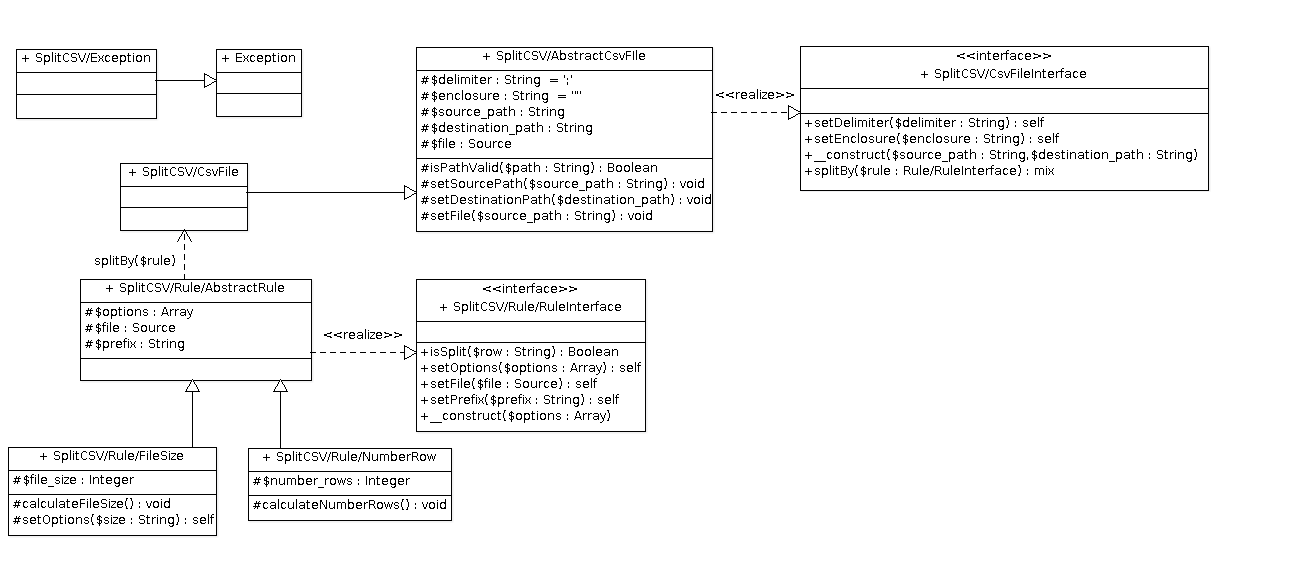
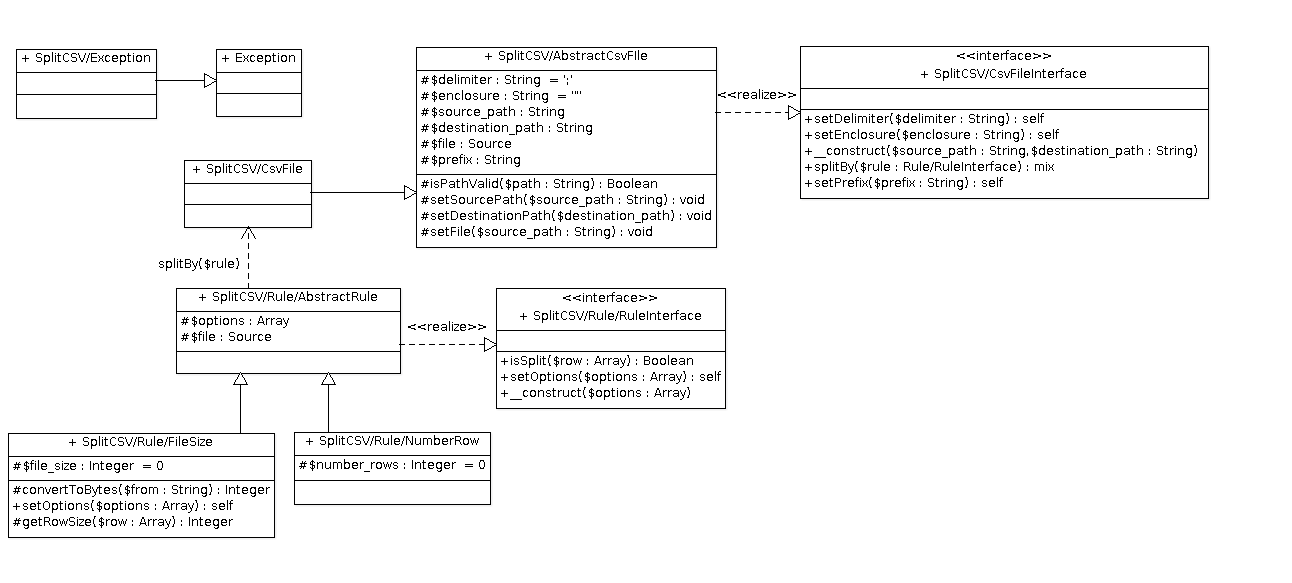
Added FileSize rule. Updated README and UML diagram.

diff --git a/src/SplitCSV/Rule/FileSize.php b/src/SplitCSV/Rule/FileSize.php
@@ -1,0 +1,117 @@
+<?php
+/**
+ * File Size Split Rule
+ * 
+ * @link        https://github.com/picamator/SplitCSV
+ * @license     http://opensource.org/licenses/BSD-3-Clause New BSD License
+ */
+
+namespace SplitCSV\Rule;
+
+class FileSize extends AbstractRule
+{   
+    /**
+     * File Size
+     * 
+     * @var integer
+     */
+    protected $file_size = 0;  
+    
+    /**
+     * Options
+     * 
+     * @var array
+     */
+    protected $options = array('size' => null);
+    
+    /**
+     * Check is file ready to be splitted
+     * 
+     * @param array $row
+     * @return boolean
+     */
+    public function isSplit(array $row)
+    {
+        $this->file_size += $this->getRowSize($row);
+        
+        $result = false;
+        if($this->file_size > $this->options['size']) {
+            $result = true;
+            // reset file_size
+            $this->file_size = 0;
+        }
+        
+        return $result;
+    }
+    
+    /**
+     * Sets options
+     * 
+     * @param array $options
+     * @return self
+     * @throws Exception
+     */
+    public function setOptions(array $options)
+    {
+        parent::setOptions($options);
+        
+        $this->options['size'] = $this->convertToBytes($this->options['size']);
+        
+        return  $this;
+    }
+    
+    /**
+     * Gets row size
+     * 
+     * @param array $row
+     * @return integer
+     */
+    protected function getRowSize(array $row) 
+    {
+        $result = 0;
+        foreach($row as $item) {
+            $result += strlen($item);
+        }
+        
+        return $result;
+    }
+    
+    /**
+     * Convert Size to bytes
+     * e.g: 2kb = 2048
+     * 
+     * @param string $from
+     * @return integer
+     */
+    protected function convertToBytes($from)
+    {
+        $number = substr($from, 0, -2);
+        switch(strtoupper(substr($from,-2))) {
+            case 'KB':
+                $result = $number*1024;
+                break;
+            
+            case 'MB':
+                $result = $number*pow(1024,2);
+                break;
+            
+            case 'GB':
+                $result = $number*pow(1024,3);
+                break;
+            
+            case 'TB':
+                $result = $number*pow(1024,4);
+                break;
+            
+            case 'PB':
+                $result = $number*pow(1024,5);
+                break;
+            
+             default:
+                $result = $from;
+                break; 
+        }
+        
+        return $result;
+    }
+}

diff --git a/tests/src/SplitCSV/Rule/RuleTest.php b/tests/src/SplitCSV/Rule/RuleTest.php
@@ -8,7 +8,7 @@
 
 namespace SplitCSV\Rule;
 
-class RuleTest extends SplitCSV\BaseTest
+class RuleTest extends \SplitCSV\BaseTest
 {
     /**
      * @dataProvider providerFileSize
@@ -22,7 +22,6 @@ class RuleTest extends SplitCSV\BaseTest
         
         // create and decorate rule
         $rule = new FileSize($options);
-        $rule->setFile($file);
         
         // run and let check where it should be split
         $actual_parts = $this->splitBy($rule, $file);
@@ -34,22 +33,22 @@ class RuleTest extends SplitCSV\BaseTest
     /**
      * Split By Rule
      * 
-     * @param   SplitCSV\Rule\RuleInterface $rule
+     * @param   \SplitCSV\Rule\RuleInterface $rule
      * @param   source $file
      * @return integer - number of files that is going to br created
      */
-    protected function splitBy(SplitCSV\Rule\RuleInterface $rule, $file)
+    protected function splitBy(\SplitCSV\Rule\RuleInterface $rule, $file)
     {
         // run and let check where it should be split
         $result = 0;
-        while (($row = fgetcsv(file, null, ';', '"')) !== FALSE) {
-            if (!$rule->isSplit($row)) {
+        while (($row = fgetcsv($file, null, ';', '"')) !== FALSE) {
+            if ($rule->isSplit($row)) {
                 // new split file should be created
                 $result++;
             }
         }
         
-        return $result;
+        return ++$result;
     }
     
     public function providerFileSize()
@@ -58,7 +57,7 @@ class RuleTest extends SplitCSV\BaseTest
             array(array('size' => '100kb'), 'test-10000-rows-357kb.csv', 4),
             array(array('size' => '150Kb'), 'test-10000-rows-357kb.csv', 3),
             array(array('size' => '300kB'), 'test-10000-rows-357kb.csv', 2),
-            array(array('size' => '1Mb'),   'test-10000-rows-357kb.csv', 0)
+            array(array('size' => '1Mb'),   'test-10000-rows-357kb.csv', 1)
        );
     } 
 }

diff --git a/src/SplitCSV/Rule/AbstractRule.php b/src/SplitCSV/Rule/AbstractRule.php
@@ -1,0 +1,52 @@
+<?php
+/**
+ * Abstract for Split Rule
+ * 
+ * @link        https://github.com/picamator/SplitCSV
+ * @license     http://opensource.org/licenses/BSD-3-Clause New BSD License
+ */
+
+namespace SplitCSV\Rule;
+
+abstract class AbstractRule implements RuleInterface
+{
+    /**
+     * Options
+     * 
+     * @var array 
+     */
+    protected $options;
+    
+    /**
+     * @param array $options
+     */
+    public function __construct(array $options)
+    {
+        $this->setOptions($options);
+    }
+    
+    /**
+     * Sets options
+     * 
+     * @param array $options
+     * @return self
+     * @throws Exception
+     */
+    public function setOptions(array $options)
+    { 
+        // validate requred options
+        $options = array_merge($this->options, $options);
+        $options = array_filter($options, function($item){
+           return !is_null($item); 
+        });
+                
+        $required = array_diff_key($this->options, $options);        
+        if(!empty($required)) {
+            throw new Exception('Error: Incorrect options for Split Rule. Option(s) "'.implode(', ', array_keys($required)).'" did not set. Please set correct data and try again.');
+        } 
+          
+        $this->options = $options;
+        
+        return $this;
+    }
+} 

diff --git a/src/SplitCSV/Rule/RuleInterface.php b/src/SplitCSV/Rule/RuleInterface.php
@@ -1,0 +1,34 @@
+<?php
+/**
+ * Interface for Split Rule
+ * 
+ * @link        https://github.com/picamator/SplitCSV
+ * @license     http://opensource.org/licenses/BSD-3-Clause New BSD License
+ */
+
+namespace SplitCSV\Rule;
+
+interface RuleInterface
+{
+    /**
+     * @param array $options
+     */
+    public function __construct(array $options);
+    
+    /**
+     * Sets options
+     * 
+     * @param array $options
+     * @return self
+     * @throws Exception
+     */
+    public function setOptions(array $options); 
+     
+    /**
+     * Check is file ready to be splitted
+     * 
+     * @param array $row
+     * @return boolean
+     */
+    public function isSplit(array $row);
+} 

diff --git a/tests/src/SplitCSV/BaseTest.php b/tests/src/SplitCSV/BaseTest.php
@@ -15,7 +15,7 @@ class BaseTest extends \PHPUnit_Framework_TestCase
      * 
      * @var string 
      */
-    protected $data_path = './../../data/';
+    protected $data_path = './data/';
     
     /**
      * Template methods runs once for each test method
@@ -33,7 +33,7 @@ class BaseTest extends \PHPUnit_Framework_TestCase
      * @retutn string
      */
     protected function getDataPath($path)
-    {
-        return $this->data_path.$path;
+    {        
+        return realpath($this->data_path.$path);
     }
 }

diff --git a/src/SplitCSV/Rule/Exception.php b/src/SplitCSV/Rule/Exception.php
@@ -1,0 +1,14 @@
+<?php
+/**
+ * SplitCSV\Rule Exception
+ * 
+ * @link        https://github.com/picamator/SplitCSV
+ * @license     http://opensource.org/licenses/BSD-3-Clause New BSD License
+ */
+
+namespace SplitCSV\Rule;
+
+class Exception extends \SplitCSV\Exception 
+{
+    
+}

diff --git a/tests/bootstrap.php b/tests/bootstrap.php
@@ -3,4 +3,4 @@ $path = realpath('./../../');
 set_include_path(get_include_path() . PATH_SEPARATOR . $path);
 
 require_once ('PHPUnit/Autoload.php');
-require_once ('./Autoload.php');
+require_once ('./../src/Autoload.php');

diff --git a/README.md b/README.md
@@ -6,12 +6,21 @@ Objective
 SplitCSV helps to split comma separated value file (CSV) into chunks by configurable options:
 
   * Each file's part contains first row from original file (or several one)
-  * Split avaliable by rows number or maximum file size
   * Every file's part has name as original but with a prefix
+
+Of course it is not possible to implement all varies of algorithms of splitting. 
+Therefore SplitCSV presents AbstractRule and RuleInterface to add user rules.
+
+Split Rules
+-----------
+There are two split rules that is available from box:
+
+  * Split by number of rows
+  * Split by file size 
 
 Area of usage
 -------------
-There are several problems where it is useful to have several files instead of one:
+There are several fields where better have several files instead of one:
 
   * Project log files to prevent them growing to gigantic size  
   * Reports before sending them off by email
